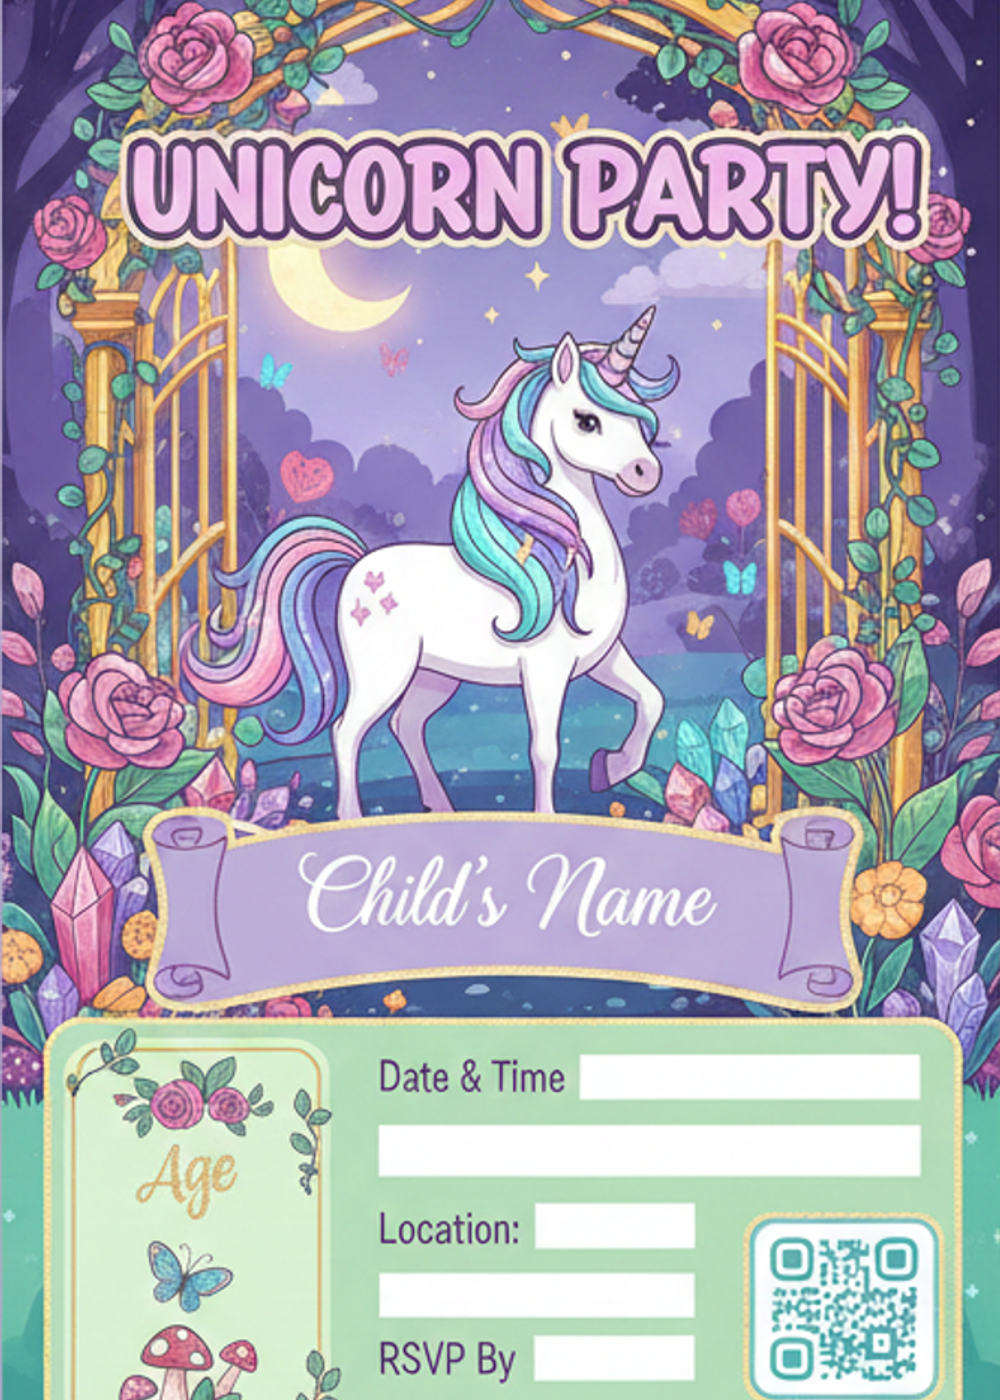
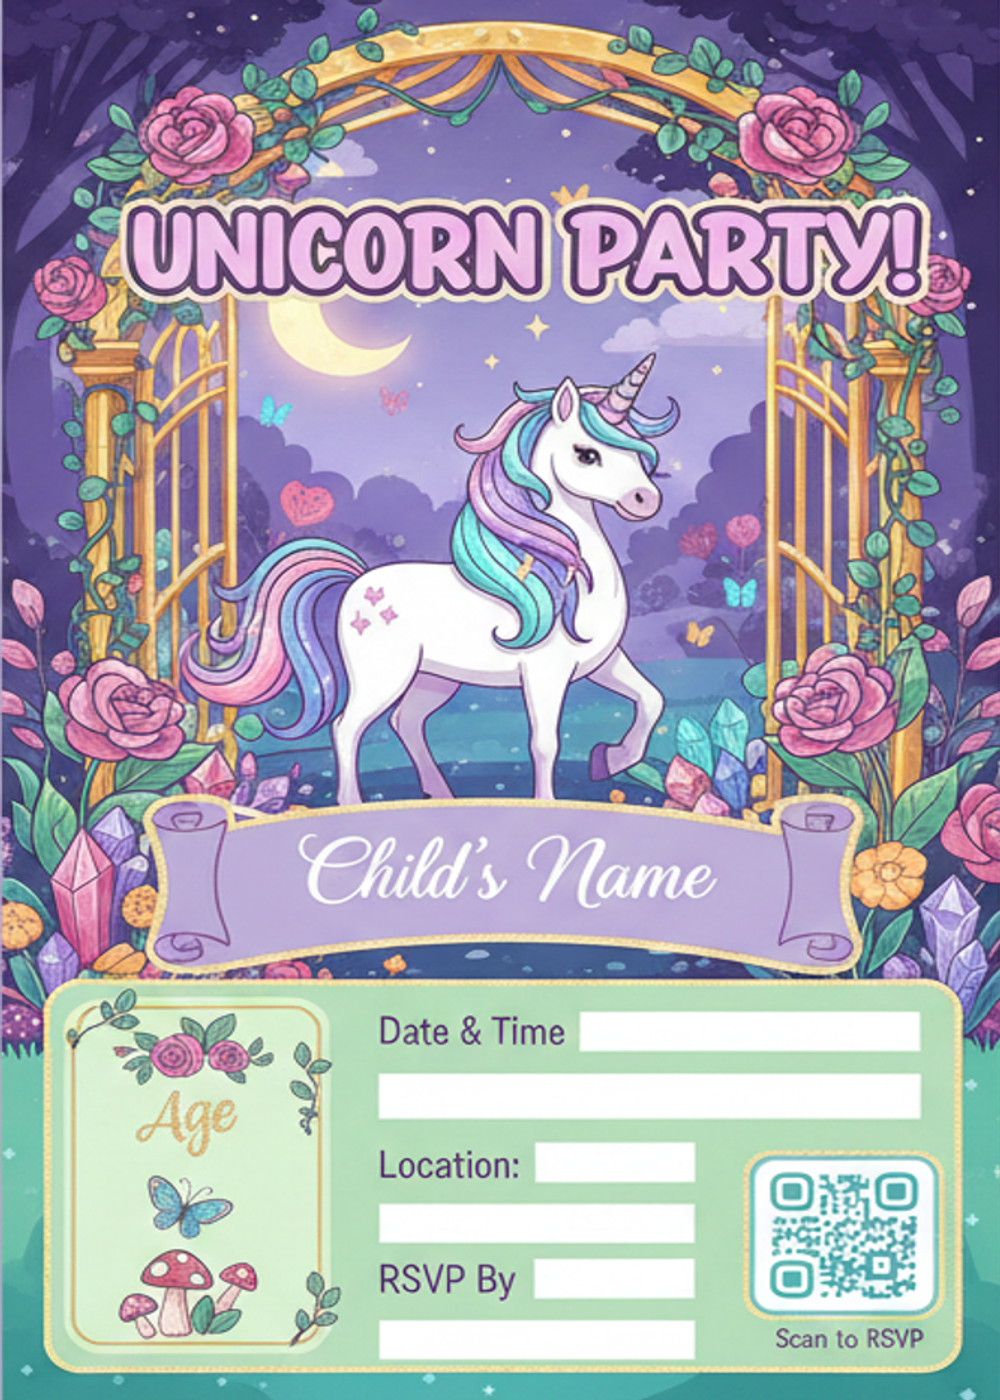
update

diff --git a/src/components/TemplateSelector.tsx b/src/components/TemplateSelector.tsx
@@ -199,8 +199,8 @@ export default function TemplateSelector({
               <button
                 onClick={() => setSelectedTheme(null)}
                 className={`px-3 py-1.5 rounded-full text-sm font-medium transition-colors ${selectedTheme === null
-                    ? 'bg-primary-600 text-white'
-                    : 'bg-neutral-100 text-neutral-700 hover:bg-neutral-200'
+                  ? 'bg-primary-600 text-white'
+                  : 'bg-neutral-100 text-neutral-700 hover:bg-neutral-200'
                   }`}
               >
                 {locale === 'zh' ? '全部' : 'All'}
@@ -210,8 +210,8 @@ export default function TemplateSelector({
                   key={theme.id}
                   onClick={() => setSelectedTheme(theme.id)}
                   className={`px-3 py-1.5 rounded-full text-sm font-medium transition-colors ${selectedTheme === theme.id
-                      ? 'bg-primary-600 text-white'
-                      : 'bg-neutral-100 text-neutral-700 hover:bg-neutral-200'
+                    ? 'bg-primary-600 text-white'
+                    : 'bg-neutral-100 text-neutral-700 hover:bg-neutral-200'
                     }`}
                 >
                   {theme.icon} {theme.name[locale as 'zh' | 'en'] || theme.name.en}
@@ -257,10 +257,10 @@ export default function TemplateSelector({
                   <div
                     key={template.id}
                     className={`relative flex flex-col group border-2 rounded-xl cursor-pointer transition-all duration-300 overflow-hidden flex-shrink-0 snap-center w-[280px] ${isCurrent
-                        ? 'border-primary-500 bg-primary-50 shadow-lg'
-                        : !isFree && !isPurchased
-                          ? 'border-orange-200 bg-gradient-to-br from-orange-50 to-yellow-50 hover:border-orange-300 hover:shadow-lg'
-                          : 'border-neutral-200 bg-white hover:border-primary-300 hover:shadow-lg'
+                      ? 'border-primary-500 bg-primary-50 shadow-lg'
+                      : !isFree && !isPurchased
+                        ? 'border-orange-200 bg-gradient-to-br from-orange-50 to-yellow-50 hover:border-orange-300 hover:shadow-lg'
+                        : 'border-neutral-200 bg-white hover:border-primary-300 hover:shadow-lg'
                       }`}
                     onClick={() => handleTemplateClick(template)}
                   >
@@ -323,10 +323,10 @@ export default function TemplateSelector({
 
                       <button
                         className={`w-full py-2 px-4 rounded-lg font-medium transition-all ${isCurrent
-                            ? 'bg-green-600 text-white'
-                            : !isFree && !isPurchased
-                              ? 'bg-gradient-to-r from-yellow-400 to-orange-500 text-white hover:from-yellow-500 hover:to-orange-600'
-                              : 'bg-primary-600 text-white hover:bg-primary-700'
+                          ? 'bg-green-600 text-white'
+                          : !isFree && !isPurchased
+                            ? 'bg-gradient-to-r from-yellow-400 to-orange-500 text-white hover:from-yellow-500 hover:to-orange-600'
+                            : 'bg-primary-600 text-white hover:bg-primary-700'
                           }`}
                         onClick={(e) => {
                           e.stopPropagation()
@@ -385,7 +385,7 @@ export default function TemplateSelector({
                   <img
                     src={selectedTemplate.imageUrl}
                     alt={selectedTemplate.name}
-                    className="w-full rounded-lg shadow-md"
+                    className="w-full aspect-[5/7] rounded-lg shadow-md object-fill"
                   />
                 </div>
               </div>

diff --git a/src/app/[locale]/admin/templates/page.tsx b/src/app/[locale]/admin/templates/page.tsx
@@ -237,9 +237,8 @@ export default function AdminTemplatesPage() {
       <div className="flex gap-2 flex-wrap">
         <button
           onClick={() => setSelectedTheme(null)}
-          className={`px-3 py-1.5 rounded-full text-sm font-medium transition-colors ${
-            !selectedTheme ? 'bg-primary-600 text-white' : 'bg-gray-200 text-gray-700 hover:bg-gray-300'
-          }`}
+          className={`px-3 py-1.5 rounded-full text-sm font-medium transition-colors ${!selectedTheme ? 'bg-primary-600 text-white' : 'bg-gray-200 text-gray-700 hover:bg-gray-300'
+            }`}
         >
           All ({templates.length})
         </button>
@@ -247,9 +246,8 @@ export default function AdminTemplatesPage() {
           <button
             key={theme}
             onClick={() => setSelectedTheme(theme)}
-            className={`px-3 py-1.5 rounded-full text-sm font-medium transition-colors ${
-              selectedTheme === theme ? 'bg-primary-600 text-white' : 'bg-gray-200 text-gray-700 hover:bg-gray-300'
-            }`}
+            className={`px-3 py-1.5 rounded-full text-sm font-medium transition-colors ${selectedTheme === theme ? 'bg-primary-600 text-white' : 'bg-gray-200 text-gray-700 hover:bg-gray-300'
+              }`}
           >
             {theme} ({templates.filter(t => t.theme === theme).length})
           </button>
@@ -268,7 +266,7 @@ export default function AdminTemplatesPage() {
                 <img
                   src={template.imageUrl}
                   alt={template.name}
-                  className="w-full h-full object-cover"
+                  className="w-full h-full object-fill aspect-[5/7]"
                 />
               ) : (
                 <div className="flex items-center justify-center h-full text-gray-400">
@@ -276,11 +274,10 @@ export default function AdminTemplatesPage() {
                 </div>
               )}
               <div className="absolute top-2 left-2">
-                <span className={`px-2 py-1 rounded text-xs font-medium ${
-                  template.effectivePrice.isFree
-                    ? 'bg-green-500 text-white'
-                    : 'bg-orange-500 text-white'
-                }`}>
+                <span className={`px-2 py-1 rounded text-xs font-medium ${template.effectivePrice.isFree
+                  ? 'bg-green-500 text-white'
+                  : 'bg-orange-500 text-white'
+                  }`}>
                   {template.effectivePrice.isFree ? 'FREE' : `$${template.effectivePrice.price}`}
                 </span>
               </div>

diff --git a/src/app/api/admin/templates/route.ts b/src/app/api/admin/templates/route.ts
@@ -107,7 +107,7 @@ export async function POST(request: NextRequest) {
 
       // 使用sharp处理图片，调整尺寸
       const processedBuffer = await sharp(buffer)
-        .resize(TARGET_SIZE.width, TARGET_SIZE.height, { fit: 'cover' })
+        .resize(TARGET_SIZE.width, TARGET_SIZE.height, { fit: 'fill' })
         .png()
         .toBuffer()
 
